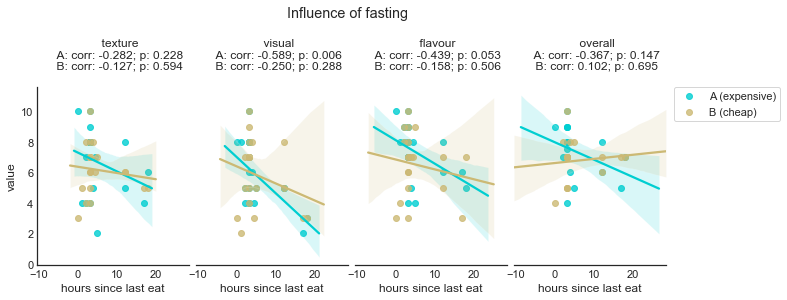
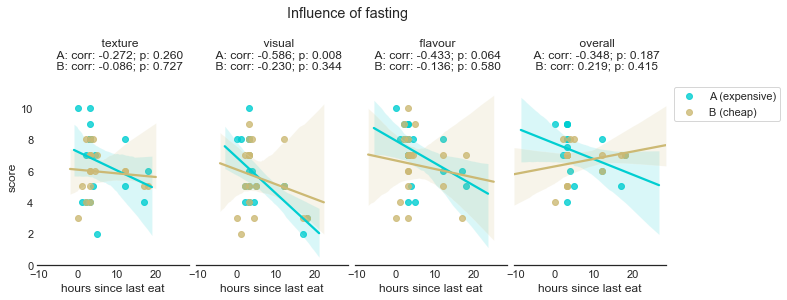
add influence_of_fasting_by_naiveness

diff --git a/analysis.py b/analysis.py
@@ -410,6 +410,7 @@ def influence_of_fasting(melted):
     g.axes[0,2].set_title(f"flavour\ncorrelation: {correlations['flavour']['r_value']:1.3f}\np: {correlations['flavour']['p_value']:1.3f}")
     g.axes[0,3].set_title(f"overall\ncorrelation: {correlations['overall']['r_value']:1.3f}\np: {correlations['overall']['p_value']:1.3f}")
     g.fig.set_size_inches(9, 4)
+    g.axes[0,0].set_ylabel('score')
     g.axes[0,1].spines['left'].set_visible(False)
     g.axes[0,2].spines['left'].set_visible(False)
     g.axes[0,3].spines['left'].set_visible(False)
@@ -417,8 +418,6 @@ def influence_of_fasting(melted):
     g.axes[0,2].tick_params(length=0)
     g.axes[0,3].tick_params(length=0)
     g.axes[0,0].tick_params(length=0)
-    # ax.spines['top'].set_visible(False)
-    # ax.axes.set_ylabel('score')
     plt.suptitle(f'Influence of fasting')
     plt.subplots_adjust(top=0.75)
 
@@ -476,6 +475,7 @@ def influence_of_fasting_by_turron(melted):
     B: corr: {correlations['overall']['turron_B']['r_value']:1.3f}; p: {correlations['overall']['turron_B']['p_value']:1.3f}
     """)
     g.fig.set_size_inches(9, 4)
+    g.axes[0,0].set_ylabel('score')
     g.axes[0,1].spines['left'].set_visible(False)
     g.axes[0,2].spines['left'].set_visible(False)
     g.axes[0,3].spines['left'].set_visible(False)
@@ -485,8 +485,6 @@ def influence_of_fasting_by_turron(melted):
     g.axes[0,3].tick_params(length=0)
     # g.axes[0,0].xaxis.set_ticks([0, 10, 20])
     # g.axes[0,0].spines['left'].set_visible(False)
-    # ax.spines['top'].set_visible(False)
-    # ax.axes.set_ylabel('score')
     plt.suptitle(f'Influence of fasting')
     plt.subplots_adjust(top=0.70)
     plt.legend(bbox_to_anchor=(1.05, 1), loc=2, borderaxespad=0.)
@@ -496,6 +494,71 @@ def influence_of_fasting_by_turron(melted):
 g = influence_of_fasting_by_turron(melted)
 g.savefig("results/influence_of_fasting_by_turron.png", facecolor=g.fig.get_facecolor())
 
+
+def influence_of_fasting_by_naiveness(melted):
+    melted_hours = melted[['variable', 'turron', 'hours since last eat', 'value', 'first_time_tasting']].dropna()
+    correlations  = {}
+    for variable in ['texture', 'visual', 'flavour', 'overall']:
+        correlations[variable] = {}
+        naives = melted_hours[(melted_hours['variable'] == variable) & (melted_hours['first_time_tasting'] == 'Y') ]
+        _, _, r_value_naive, p_value_naive, _ = scipy.stats.linregress(naives['hours since last eat'], naives['value'])
+        correlations[variable]['naive'] = {'r_value':r_value_naive, 'p_value':p_value_naive}
+        #
+        not_naives = melted_hours[(melted_hours['variable'] == variable) & (melted_hours['first_time_tasting'] == 'N') ]
+        _, _, r_value_not_naive, p_value_not_naive, _ = scipy.stats.linregress(not_naives['hours since last eat'], not_naives['value'])
+        correlations[variable]['not_naive'] = {'r_value':r_value_not_naive, 'p_value':p_value_not_naive}
+
+    g = sns.lmplot(
+        x='hours since last eat',
+        y='value',
+        data=melted_hours,
+        hue='first_time_tasting',
+        # palette={
+        #     'N': 'darksalmon',
+        #     'Y': 'mediumseagreen',
+        # },
+        height=8,
+        col='variable',
+        col_order=['texture', 'visual', 'flavour', 'overall'],
+        legend = False,
+    )
+    g.axes[0,0].set_title(f"""
+    texture
+    A: corr: {correlations['texture']['naive']['r_value']:1.3f}; p: {correlations['texture']['naive']['p_value']:1.3f}
+    B: corr: {correlations['texture']['not_naive']['r_value']:1.3f}; p: {correlations['texture']['not_naive']['p_value']:1.3f}
+    """)
+    g.axes[0,1].set_title(f"""
+    visual
+    A: corr: {correlations['visual']['naive']['r_value']:1.3f}; p: {correlations['visual']['naive']['p_value']:1.3f}
+    B: corr: {correlations['visual']['not_naive']['r_value']:1.3f}; p: {correlations['visual']['not_naive']['p_value']:1.3f}
+    """)
+    g.axes[0,2].set_title(f"""
+    flavour
+    A: corr: {correlations['flavour']['naive']['r_value']:1.3f}; p: {correlations['flavour']['naive']['p_value']:1.3f}
+    B: corr: {correlations['flavour']['not_naive']['r_value']:1.3f}; p: {correlations['flavour']['not_naive']['p_value']:1.3f}
+    """)
+    g.axes[0,3].set_title(f"""
+    overall
+    A: corr: {correlations['overall']['naive']['r_value']:1.3f}; p: {correlations['overall']['naive']['p_value']:1.3f}
+    B: corr: {correlations['overall']['not_naive']['r_value']:1.3f}; p: {correlations['overall']['not_naive']['p_value']:1.3f}
+    """)
+    g.fig.set_size_inches(9, 4)
+    g.axes[0,0].set_ylabel('score')
+    g.axes[0,1].spines['left'].set_visible(False)
+    g.axes[0,2].spines['left'].set_visible(False)
+    g.axes[0,3].spines['left'].set_visible(False)
+    g.axes[0,0].tick_params(length=0)
+    g.axes[0,1].tick_params(length=0)
+    g.axes[0,2].tick_params(length=0)
+    g.axes[0,3].tick_params(length=0)
+    plt.suptitle(f'Influence of fasting')
+    plt.subplots_adjust(top=0.70)
+    plt.legend(bbox_to_anchor=(1.05, 1), loc=2, borderaxespad=0.)
+
+    return g
+
+g = influence_of_fasting_by_naiveness(melted)
+g.savefig("results/influence_of_fasting_by_naiveness.png", facecolor=g.fig.get_facecolor())
 
 
 
